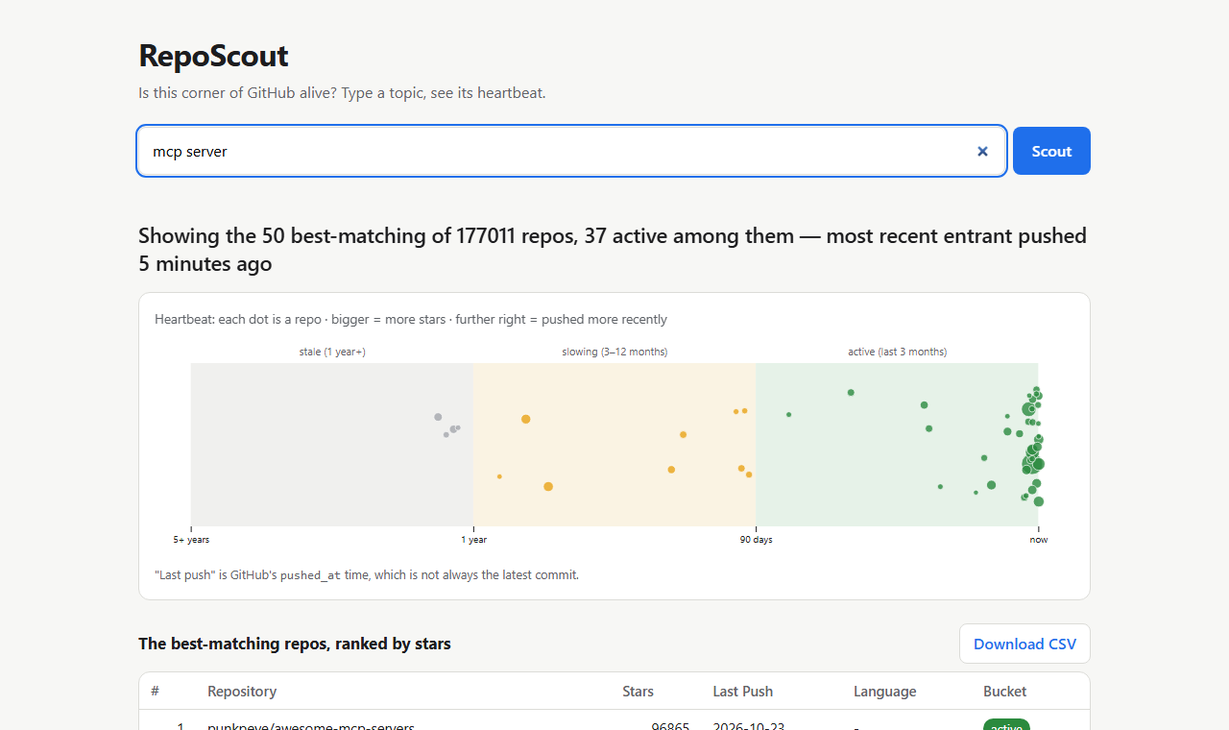
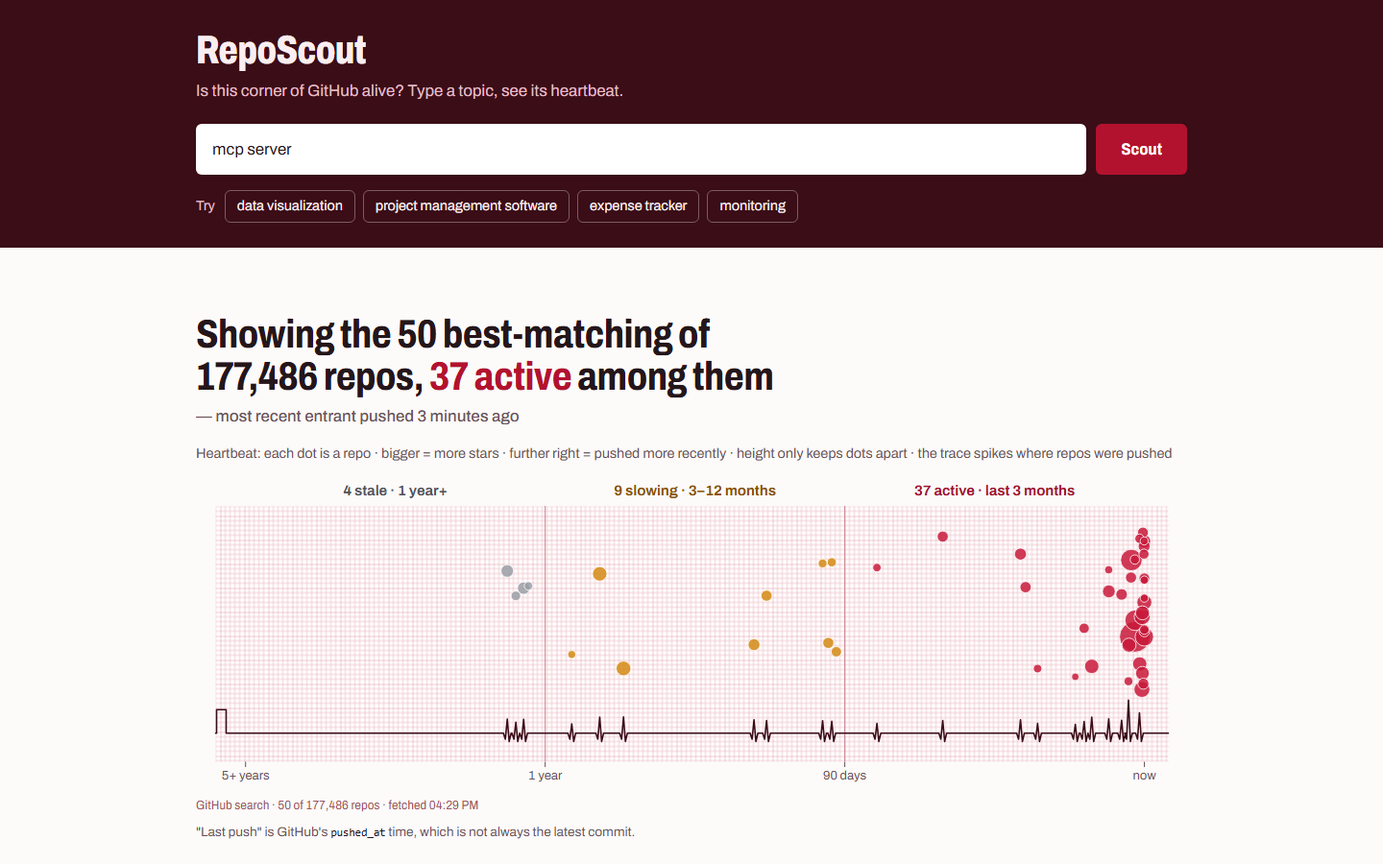
README demo (HW8), new screenshots, archive website-heartbeat-ui
README section 1 rewritten in six sentences around the finished page
(project management software, mcp server vs angularjs directive, CSV).
Four new screenshots of the final design. website-heartbeat-ui archived
(24/24 tasks); new main spec openspec/specs/web-ui.

diff --git a/AGENTS.md b/AGENTS.md
@@ -632,3 +632,103 @@ The user reported the long-name wrap fix wasn't visible yet in their browser; mo
 Compared gstack `/qa` (finds functional bugs) with Impeccable (design polish). The functional checks were already done (every state, race, cache, phone width, live data, plus the user's own run), and the demo is screenshots, so **decision (user): replace task 8.2 with an Impeccable design pass** (install, `critique` then `polish` on `site/` at desktop and 360 px, keep every spec scenario true, re-run both test suites). Task 8.3 reopened: the screenshots taken earlier (before polishing) will be retaken afterwards. Reverses the CEO review's R8 ("keep `/qa`"), by the user's explicit choice. `openspec validate --strict` passes. Progress: 22/24.
 
 **Next step:** the user sends Impeccable's install instructions; install, then run the pass.
+
+## 2026-10-26 (later) — Impeccable installed; screenshot keywords decided
+
+The user confirmed the wrap fix after a server restart. Installed Impeccable (skill v4.7.0, engine v0.1.16) **globally** for Claude Code only, like gstack (`npx impeccable install --providers=claude --global --no-hooks -y`), into `~/.claude/skills/impeccable/` plus 4 helper agents in `~/.claude/agents/`. Optional hooks skipped. Nothing added to the repo.
+
+**Screenshot keywords (user decision):** alive `mcp server`, graveyard `angularjs directive`, and for the table/CSV shot **`project management software`** instead of `expense tracker` (the search where the long-name overflow was found, and it shows the fix). README §1 keeps the `expense tracker` example and also mentions `project management software`, with the real numbers from the retaken screenshot. Noted in task 8.3.
+
+**Next step:** `/impeccable init`, then the design pass (8.2), then the screenshots (8.3) and the README addition.
+
+## 2026-10-26 (later) — `/impeccable init`: PRODUCT.md written
+
+Impeccable's init interview (3 questions). User answers: users = the demo audience (classmates, instructor; screenshot presentation) plus the author and a friend for real use; positioning = **fast GitHub search with export** (no sign-in); constraints = static/no build step, same rules as the CLI, works at phone width. Written to `PRODUCT.md` at the repo root (product facts only, no visual decisions; Impeccable reads it for later commands). No image generation on this machine, so no comp-first/code-first setting; live mode not configured (not needed for a critique/polish pass).
+
+**Next step:** `/impeccable critique site`, then `polish` (task 8.2).
+
+## 2026-10-26 (later) — `/impeccable critique site`: 25/40, polish plan chosen
+
+Dual-agent critique (design review + Impeccable detector/browser, run as two isolated subagents). Score **25/40 (Acceptable)**. Detector: markup clean; browser flagged the `active` pill contrast (white on `#2b8a3e`, 4.4:1 < 4.5:1) and 11 px chart zone labels. Priority issues: no focal point at presentation size (P1), repo names not links (P1), zero/error states look broken (P2), accessibility gaps (P2), phone names break mid-word (P2), bare start screen (P3). Snapshot in `.impeccable/critique/` (contains a local absolute path → to be gitignored).
+
+**User choices:** focus on presentation impact first, take on all 6 issues, and give the page **more character** (not just a sharper default look). Order: bolder → typeset + colorize (font vendored in `site/vendor/`, no CDN) → harden (links, live verdict) → clarify (empty/error states) → adapt (break names after `/`) → onboard (example topics) → polish, keeping every `web-ui` spec scenario true.
+
+**Example topic buttons (user decision):** `mcp server`, `project management software`, `expense tracker`, `monitoring` — popular, understandable topics; `angularjs directive` left out of the buttons because it isn't understandable to a general audience.
+
+**Publishing later (question answered):** the page is static with relative paths, vendored libraries and no token, so GitHub Pages needs no code changes: one small Actions workflow that publishes `site/` (or a `docs/` move) plus the repo's Pages setting. Open question: whether the course org (`esst-prog2`) allows Pages for this repo.
+
+**Correction (user):** `mcp server` replaced by **data visualization** in the example buttons → `data visualization`, `project management software`, `expense tracker`, `monitoring`. US spelling on purpose: GitHub doesn't treat the spellings as the same word (live check: "data visualization" 402,105 repos vs "data visualisation" 35,668). `mcp server` stays the alive-topic screenshot.
+
+## 2026-10-26 (later) — `/impeccable bolder site`: verdict as headline, louder heartbeat strip
+
+Scope: the results hero only (verdict + strip); nothing else restyled, no new font. Chose *not* to add the critique's "big 37/50 number" block: Impeccable's craft floor bans the hero-metric template, and the verdict sentence already holds the number.
+- **Verdict** (`renderVerdict()` in `site/app.js`): display headline (fluid 1.5–2.25rem, 700, balanced, max 30ch); the `<A> active` part is a coloured span (dark green, grey when 0); the "— most recent entrant…" tail is a quieter second line. Built from text nodes, so `textContent` is still exactly the CLI verdict (spec wording unchanged; checked live and in the harness).
+- **Strip:** 340 px tall (360 on phones, was 230/300); zone labels now carry counts in darkened bucket colours at 15/13 px, 650 weight (`48 stale · 1 year+`, `0 active · last 3 months`), fixing the detector's 11 px tiny-text finding; dot radius 3–16 px (was 2–11); axis text 13 px; wider left padding so the "5+ years" pile sits inside the frame.
+- Not possible within the spec: thousands separators in the verdict ("177363"), since its wording must match the CLI.
+Checked live at 1280 and 360 (`mcp server`, `angularjs directive`; no sideways scroll). 175 pytest + 63 node tests passing.
+
+## 2026-10-26 (later) — `/impeccable typeset + colorize site`: the ECG chart-paper world
+
+The user asked for "more character". Impeccable treats that as a new visual world: I listed seven candidate worlds from the audience's own world (library due-date card, IUCN Red List, ECG chart paper, football table + form guide, best-before labels, weather-warning map, herbarium sheet), Impeccable's `concept-seed` assigned #3 and dealt six catalogue challengers (two competitive, four declined, each declined one lending one discipline). Choice presented as text (no image generation → no picture page). **User chose: ECG chart paper.** Direction contract in `.impeccable/surfaces/site-index-html.md` (seed `57447f7b3f68e516`).
+
+**Built (code-led):**
+- Oxblood header band with title, search, red Scout button and the four example topic buttons (`data visualization`, `project management software`, `expense tracker`, `monitoring`); on phones they scroll on one row with an edge fade.
+- **Archivo** variable font, vendored in `site/vendor/fonts/` (latin + latin-ext woff2, OFL licence, `@fontsource-variable/archivo@5.2.8`): condensed widths for title, verdict and table headers, normal width for reading.
+- The strip is one sheet of ECG paper (5/25 px pink grid drawn as an SVG pattern), no card frame, no zone washes; **the trace** (signature move) runs along the bottom and spikes at each repo's last push (taller = more stars, sized in pixels), so a dead topic flatlines across the active zone; a square calibration pulse at its start; a printout line under it ("GitHub search · 50 of 3137 repos · fetched 13:31").
+- Colours by meaning: trace red = active, amber = slowing, flat grey = stale; table shows the bucket word in its ink (no pills), a red mark on active ranks, stale rows faded; numeric headers right-aligned; names break after "/" (`<wbr>` text nodes).
+- Hovering (or tabbing into) a table row lifts its dot in the chart and dims the rest. Loading dims earlier results (`aria-busy`). Start screen shows a blank sheet with a flat trace, no data.
+- Verdict `textContent` still exactly the CLI wording; GitHub text still plain text; harness markup synced with the page.
+
+**Review:** Impeccable's finish reviewer (2 rounds): round 1 asked for 8 fixes (one printed sheet, no card, calibration pulse + printout line, row states, idle start screen, name breaks, header alignment, loading state), all applied; round 2 found three small regressions (a number shown with and without separators, "37 active" splitting at 360, cut-off topic chip), fixed and checked. Detector: one advisory on the grid background, kept on purpose (it is the measurement surface). 175 pytest + 63 node tests passing. DESIGN.md written by Impeccable's documenter.
+
+**New open issue #8:** thousands separators ("177,363") in the verdict. The verdict must match the CLI word for word (spec + shared fixture), so this is a small separate OpenSpec change touching the CLI, the page and the fixture; the printout line deliberately prints numbers the same way as the verdict until then.
+
+## 2026-10-26 (later) — `/impeccable harden site`
+
+- **Repo names are links** (new tab, `rel="noopener noreferrer"`), still built from text nodes. A link is made only when GitHub's `html_url` is `https://` on exactly `github.com` (`isGitHubUrl()`); anything else (e.g. `javascript:…`, `github.com.evil.example`) stays plain text. Focusing a link also triggers the linked chart highlight.
+- **Screen readers hear the answer:** a visually hidden `aria-live` region (`#announce`) gets the verdict (plus the incomplete warning) after each render; before, they heard "Scouting GitHub…" and then nothing.
+- **Hanging requests time out after 20 s** (`AbortController`), showing "Could not reach GitHub: it didn't answer within 20 seconds…" (still the spec's "unreachable" state) instead of loading forever.
+- Harness: new cases `badurl` (unsafe URLs stay text: 0 links) and `hang` (timeout message after 20 s); the mock `fetch` now passes the request options (signal) through. Checked: 5 links with correct href/target/rel in `normal`, announcement text = verdict, no alert from the `<img onerror>` name. 175 pytest + 63 node tests passing.
+
+## 2026-10-26 (later) — `/impeccable clarify site`
+
+- **Zero results:** the verdict still says `0 repos found` (spec), followed by "No repositories on GitHub match “<keyword>”. Try fewer or more general words, or one of the example topics above."; the empty chart, table heading and table are hidden. Found on the way: `.table-head { display: flex }` overrode the `hidden` attribute → global `[hidden] { display: none !important; }`.
+- **Errors say what failed and what to do,** with a **Try again** button where a second attempt can help (offline, 20 s timeout, GitHub 5xx, unexpected response); not for rate limits (must wait) or 4xx (change the words). 5xx and other 4xx now get different messages, both still naming the HTTP status (spec). Rate limit: "Too many searches for now: GitHub allows 10 a minute without signing in. Search again after HH:MM:SS." (or "GitHub gave no reset time…"). Spec-required phrases kept ("Could not reach GitHub", "GitHub sent a response RepoScout doesn't understand", the HTTP status, "no reset time").
+- Loading names the search: "Scouting GitHub for “<keyword>”…"; empty input: "Type a topic first, for example “expense tracker”." Keyword always inserted as text.
+- Harness: new `error502` case; every state checked (message, retry button presence, retry makes a new request). 175 pytest + 63 node tests passing.
+
+## 2026-10-26 (later) — `/impeccable adapt site`
+
+- **Chart redraws when its width changes** (window resized, phone rotated): a `ResizeObserver` on `#chart`, debounced 150 ms, redraws with the same data and the same "now" (`shown.nowMs`), so labels, dot sizes and spikes always fit the real width. Checked by resizing one page 1280 → 700 → 320 → 740 → 768 → 1600: SVG width follows each time, no sideways page scroll at any width.
+- **Touch screens** (`pointer: coarse`): example topics and Try again at least 40 px tall; repo links get a taller tap area.
+- **Phone held sideways** (`max-height: 480px` landscape): compact header band, so the verdict stays in view under the search box (was: band took 258 of 360 px).
+- **Notched phones:** `viewport-fit=cover` + side padding `max(…, env(safe-area-inset-*))`.
+- Evidence: Chromium headless with emulated viewports (layout only); real touch and iOS Safari not tested. 175 pytest + 63 node tests passing.
+
+## 2026-10-26 (later) — `/impeccable polish site` + plan order
+
+- **One palette:** every colour literal left in `site/style.css` and in the chart code of `site/app.js` is now a named CSS token (`--tint`, `--head-bg`, `--placeholder`, `--selection`, `--error-rule`, `--printout`, `--grid-minor/major`, `--zone-rule`, `--active-hover`, `--*-label`); the chart reads them with `token()` (`getComputedStyle`), so page and chart can't drift apart. Two near-identical hover tints merged into `--tint`. DESIGN.md + `.impeccable/design.json` token names aligned with the CSS.
+- Re-checked: rendering unchanged at 1280 (alive search + table), visible focus ring on topic buttons, repo links and the CSV button, no console errors, detector only the intended grid-background advisory, 175 pytest + 63 node tests passing. The critique snapshot wasn't formally closed (Impeccable sees the page as changed since the critique, which closes its backlog by itself); all six priority issues from it are addressed (bolder, links/harden, empty/error states, accessibility, phone name breaks, start screen + example topics).
+
+**Order agreed with the user for the rest of `website-ui`:** polish (done) → open issue #8 thousands separators as its own small OpenSpec change (CLI + page + fixture) → retake the three screenshots (`mcp server`, `angularjs directive`, `project management software`) → README §1 rewrite (≤ 6 sentences, present tense, real numbers; this is **HW8**, which asks for 3–6 sentences) → archive `website-heartbeat-ui`, commit, push → user pastes §1 into the HW8 submission.
+
+## 2026-10-26 (later) — Proposed: thousands separators in the verdict (open issue #8)
+
+On `website-ui` (same branch, separate OpenSpec change, as agreed). `/opsx:propose` → change `verdict-thousands-separators`: MODIFIED `repo-search` "One-line verdict summary" (every verdict count gets a comma every three digits, e.g. "244,832", independent of the computer's locale; example updated to "3,241"; 2 new scenarios). Decisions recorded in design.md: a **fixed comma** (Python `{:,}`, JS regex helper `groupThousands`, not `toLocaleString`) so the CLI, the page and the shared fixture agree on any machine; the page's printout line uses the same helper; **Stars column and CSV unchanged** (CSV stays plain digits for spreadsheets). Fixture-first, red then green, both suites. The `web-ui` example lives in the not-yet-archived `website-heartbeat-ui` change, so it's updated there (task 3.1). `openspec validate --strict` passes. Nothing implemented yet.
+
+## 2026-10-26 (later) — Implemented: thousands separators in the verdict (7/7 tasks)
+
+`/opsx:apply` for `verdict-thousands-separators`. **Red first:** fixture updated by hand (244832 → "244,832", plus new cases 999 / 1000 / 1000000) → 3 failures in each suite (999 already passed, kept as guard); `tests/test_output.py` "3,241" assertion and a new test that runs `format_verdict` under a real Hungarian locale (installed on this machine, so not skipped) → both failed.
+**Green:** `reposcout/output.py` formats verdict counts with `{:,}`; `site/rules.js` gets `groupThousands()` (regex, no `toLocaleString`) used in `formatVerdict`; the page's printout line uses it too. Harness case `big` (177455) shows "177,455" in verdict and printout; live "mcp server" → "Showing the 50 best-matching of 177,480 repos, 37 active among them…". Docs: USER_MANUAL example "3,241", the `web-ui` scenario in `website-heartbeat-ui` "244,832", design notes. 179 pytest + 66 node tests, both changes validate.
+**Found on the way:** the headless browser kept an old cached `rules.js` while loading the new `app.js` ("does not provide an export named 'groupThousands'"), so the page's script didn't start. Same can happen in a real browser after an update → hard refresh (Ctrl+F5). Possible later fix: version the script URLs (e.g. `app.js?v=…`) when publishing on GitHub Pages; noted, not done.
+
+## 2026-10-26 (later) — Archived: `verdict-thousands-separators`
+
+`/opsx:archive`: 4/4 artifacts, 7/7 tasks. Synced the MODIFIED "One-line verdict summary" requirement into `openspec/specs/repo-search/spec.md` (thousands-separator rule, "3,241" example, 2 new scenarios; other scenarios unchanged). Verified the main requirement equals the delta, requirement count unchanged (6), `openspec validate --specs --strict` passes. Moved to `openspec/changes/archive/2026-10-26-verdict-thousands-separators/`. Open issue #8 closed. Active change left: `website-heartbeat-ui` (screenshots + README §1 remaining).
+
+## 2026-10-26 (later) — Screenshots retaken, README §1 (HW8), `website-heartbeat-ui` archived
+
+- **Screenshots** (1440×900, live data, final design) in `docs/screenshots/`: `1-alive-mcp-server.png` (177,486 repos, 37 active), `2-graveyard-angularjs-directive.png` (3,137 repos, 0 active, trace flatlines across the active zone), `3-project-management-software.png` (14,067 repos, 10 active) and `4-table-csv-project-management-software.png` (ranked table + Download CSV). The old `3-table-expense-tracker.png` was removed.
+- **README §1 rewritten for HW8**: 6 sentences, present tense, real numbers and filenames (`project management software` as the main path, `mcp server` vs `angularjs directive` as the contrast, `project-management-software-report.csv`, `docs/screenshots/`, the CLI with `expense tracker` underneath). Recorded by the `website-heartbeat-ui` OpenSpec change (proposal + tasks 1.4/7.1/8.3), so no separate propose was needed.
+- Tasks 8.2 (Impeccable design pass) and 8.3 (screenshots) done → 24/24. `openspec archive website-heartbeat-ui -y` created the new main spec `openspec/specs/web-ui/spec.md` (9 requirements, 19 scenarios, identical to the delta); `openspec validate --specs --strict` → 4/4. No active changes left. 179 pytest + 66 node tests passing.
+- Open issues now: #4 lock file (deferred), #7 dated/versioned report files; noted: cache-busting script URLs before GitHub Pages; GitHub Pages permission question asked to the instructor in HW7.

diff --git a/openspec/specs/web-ui/spec.md b/openspec/specs/web-ui/spec.md
@@ -1,0 +1,118 @@
+# web-ui Specification
+
+## Purpose
+A static, tokenless web page that searches GitHub by keyword with the same rules as the RepoScout CLI and shows a topic's health at a glance as a heartbeat strip, plus the verdict, a ranked table and a CSV download.
+
+## Requirements
+
+### Requirement: Static, tokenless page
+The web interface SHALL consist only of static files (HTML, CSS, JavaScript and vendored libraries) that work when served by any static file server, with no build step and no server-side code. The page SHALL call GitHub's repository search API directly from the browser and SHALL NOT use, ask for, or contain a GitHub token. Third-party libraries SHALL be loaded from files inside the project at pinned versions, not from a CDN. Text that comes from GitHub (repository names, languages, URLs) and the user's keyword SHALL be inserted into the page as plain text, never interpreted as HTML.
+
+#### Scenario: HTML-looking data stays text
+- **WHEN** a (recorded) response contains a repository named `<img src=x onerror=alert(1)>`
+- **THEN** the table and tooltip show those characters literally and no script runs
+
+#### Scenario: Served locally
+- **WHEN** the user runs `python -m http.server` in the `site/` folder and opens the page in a browser
+- **THEN** the page loads and can run a search, with no token prompt and no request to any host other than the local server and `api.github.com`
+
+#### Scenario: No token anywhere
+- **WHEN** the page's files are inspected
+- **THEN** they contain no GitHub token and no field or prompt that asks for one
+
+### Requirement: Same selection and ranking as the CLI
+For a keyword, the page SHALL request the 50 best-matching repositories by GitHub's relevance ranking (no `sort` parameter), passing the keyword to GitHub unchanged apart from URL-encoding, and SHALL display the fetched repositories ranked by stars, descending. Each repository SHALL be bucketed `active` (last push under 90 days ago), `slowing` (under 365 days) or `stale` (365 days or more), using GitHub's `pushed_at`.
+
+#### Scenario: Search request
+- **WHEN** the user searches for `expense tracker`
+- **THEN** the page requests `https://api.github.com/search/repositories` with `q=expense%20tracker` (or equivalent encoding) and `per_page=50`, and without a `sort` parameter
+
+#### Scenario: Display order independent of GitHub's order
+- **WHEN** GitHub returns repositories with 5, 300 and 40 stars, in that order
+- **THEN** the table and strip list them as 300, 40, 5
+
+### Requirement: Verdict line matches the CLI
+The page SHALL show a one-line verdict with the same wording rules as the CLI: `<N> repos found, <A> active in the last <window> — most recent entrant pushed <time>` when GitHub's reported total is not larger than the number of repositories fetched, and `Showing the <n> best-matching of <N> repos, <A> active among them — most recent entrant pushed <time>` otherwise, and `0 repos found` when there are none. The relative time SHALL be rounded down exactly as the CLI does it.
+
+#### Scenario: More than 50 matches
+- **WHEN** GitHub reports 244,832 matches and 50 are fetched, 10 of them active
+- **THEN** the verdict begins `Showing the 50 best-matching of 244,832 repos, 10 active among them`
+
+#### Scenario: Relative time rounded down
+- **WHEN** the most recently pushed repository was pushed 16 days ago
+- **THEN** the verdict ends `pushed 2 weeks ago`
+
+### Requirement: Heartbeat strip
+The page SHALL draw one dot per fetched repository on a horizontal axis of time since last push, divided into three zones of readable width, stale (left), slowing (middle) and active (right). Within each zone the position SHALL be proportional to days since last push over that zone's range (active 0-90 days, slowing 90-365 days, stale 365 days to 5 years); repositories pushed more than 5 years ago SHALL be placed at the left edge, which is labelled as 5+ years. Dot area SHALL grow with stars on a square-root (or capped) scale, dot shade SHALL show the bucket, and overlapping dots SHALL be separated vertically. Each dot SHALL show the repository name, stars and last push date on hover or tap. The page SHALL state in one line that "last push" is GitHub's `pushed_at`, not a verified last commit. If the chart libraries are not available or the chart fails to draw, the page SHALL still show the verdict and table, with a plain note that the chart is unavailable.
+
+#### Scenario: Active repositories have room
+- **WHEN** a search returns repositories pushed across ten years, some within the last 90 days
+- **THEN** the active zone takes up a readable share of the strip's width (not a sliver), and the recent repositories appear in it
+
+#### Scenario: Chart library missing
+- **WHEN** the chart library fails to load
+- **THEN** the verdict and table are still shown, with a note that the chart is unavailable, and no blank page
+
+### Requirement: Results table and CSV download
+The page SHALL show a table of the fetched repositories with the CLI's columns (`#`, `Repository`, `Stars`, `Last Push`, `Language`, `Bucket`), with `Last Push` as the UTC date of `pushed_at` (as the CLI does, regardless of the browser's time zone). It SHALL offer a download of the same rows as a CSV with the CLI's CSV columns (the table columns plus `URL`), an empty `Language` when GitHub reports none, and a filename following the CLI's rule (`<slug>-report.csv`, with filename-unsafe characters replaced and `search-report.csv` as the fallback).
+
+#### Scenario: Download CSV
+- **WHEN** the user searches for `c++/qt` and clicks Download CSV
+- **THEN** the browser saves `c++-qt-report.csv` containing the header row and one row per fetched repository, in table order
+
+### Requirement: Search states
+The page SHALL show a plain-language message for each of these states, never a blank page or an error visible only in the browser console:
+- loading while the request is in progress;
+- empty input: an empty or whitespace-only keyword SHALL NOT be sent;
+- zero results: `0 repos found`;
+- incomplete results: when GitHub's response has `incomplete_results: true`, a warning that the results may be incomplete, shown together with the results;
+- rate-limited: detected only on a non-OK response, with exactly the CLI's rule: any HTTP 429, or HTTP 403 with `X-RateLimit-Remaining: 0` or a `Retry-After` header (any other status, e.g. 422, is never a rate limit). The page SHALL show a static message with the clock time after which searching works again, computed from `Retry-After` when it is a whole number of seconds, otherwise from `X-RateLimit-Reset`; when neither is present it SHALL say GitHub gave no reset time and SHALL NOT invent one. There is no live countdown and no automatic retry; the search button stays usable;
+- offline or unreachable: a message that GitHub could not be reached;
+- any other error response (for example HTTP 422): a message naming the HTTP status;
+- unexpected response: a successful response whose body is not valid JSON, or lacks `total_count`, `items` or `incomplete_results`, or contains an item missing `full_name`, `html_url`, `stargazers_count`, `pushed_at` or the `language` key, or whose `pushed_at` is not a valid timestamp, SHALL show a message that GitHub sent a response RepoScout doesn't understand (as the CLI does), instead of staying on the loading state.
+A successful response SHALL always be shown as results, whatever its rate-limit headers say. The page SHALL always show the outcome of the most recently submitted search: a response to an earlier search that arrives later SHALL be ignored (a new search replaces one still in progress).
+
+#### Scenario: Secondary rate limit
+- **WHEN** GitHub answers HTTP 403 with `Retry-After: 42` and `X-RateLimit-Remaining: 7`
+- **THEN** the page shows a rate-limit message saying to try again after the clock time 42 seconds from now
+
+#### Scenario: Last allowed search
+- **WHEN** GitHub answers HTTP 200 with results and `X-RateLimit-Remaining: 0`
+- **THEN** the page shows the results normally
+
+#### Scenario: Older answer arrives last
+- **WHEN** the user searches `react` and then `vue` before the first answer arrives, and GitHub answers `vue` first and `react` second
+- **THEN** the page keeps showing the `vue` results and ignores the late `react` answer
+
+#### Scenario: Garbage success response
+- **WHEN** a network login page answers HTTP 200 with an HTML page instead of GitHub's JSON
+- **THEN** the page shows that GitHub sent a response RepoScout doesn't understand, and does not stay on "loading"
+
+#### Scenario: No reset time given
+- **WHEN** GitHub answers HTTP 429 with no `Retry-After` and no `X-RateLimit-Reset`
+- **THEN** the page says it is rate-limited and that GitHub gave no reset time, without inventing a time
+
+### Requirement: Browser cache
+The page SHALL cache each search's fetched data in browser storage for 24 hours, keyed by the keyword normalized like the CLI's cache key (trimmed, internal whitespace collapsed, case-folded), and SHALL serve a repeat search within 24 hours from the cache without calling GitHub. The cached entry SHALL record whether the results were incomplete, so a cache hit shows the same warning; an entry without that record SHALL be treated as a miss. If browser storage is unavailable, the page SHALL still work, without caching.
+
+#### Scenario: Repeat search
+- **WHEN** the user searches `Expense   Tracker` within 24 hours of searching `expense tracker`
+- **THEN** the results are shown from the cache, with no request to GitHub
+
+#### Scenario: Storage blocked
+- **WHEN** the browser refuses access to local storage
+- **THEN** searches still work, each one calling GitHub
+
+### Requirement: Rules parity with the CLI
+The bucketing, verdict wording, relative-time rounding, keyword normalization, CSV filename and CSV row rules SHALL be checked against one shared test fixture by both the Python test suite and a JavaScript test run, so that a rule changed in only one language makes a test fail. The fixture SHALL include at least: bucket boundary cases (89, 90, 364, 365 days), verdict cases for both wordings, for zero results and for an incomplete result (30 fetched of 60 reported), relative-time cases across every unit, a non-ASCII keyword, a keyword with filename-unsafe characters, a repository with no language, a `pushed_at` at 23:30 UTC, and rate-limit cases (a 429 with no headers is limited; a 422 with `X-RateLimit-Remaining: 0` is not; a non-numeric `Retry-After` falls back to `X-RateLimit-Reset`). Parity SHALL be checked with recorded inputs and a fixed "now", not by comparing two live searches. The fixture SHALL be fixed reference data, edited by hand on purpose, not regenerated from either implementation. Keyword normalization parity is claimed for the fixture's cases (ASCII, Hungarian, `ß`); rarer Unicode case-folding or whitespace characters may differ from Python.
+
+#### Scenario: A rule drifts
+- **WHEN** the active threshold is changed in the JavaScript rules but not in the Python package (or the reverse)
+- **THEN** the fixture test for that language fails
+
+### Requirement: Usable at phone width
+The page SHALL be usable on a phone-sized screen (360 px wide): the sections stack vertically, nothing requires horizontal page scrolling except the table itself, the table either scrolls sideways within its own area or hides its less important columns (`Language`, `Last Push`), and the strip is tall enough for its dots to remain distinguishable.
+
+#### Scenario: Phone viewport
+- **WHEN** the page is shown at 360 px width after a search
+- **THEN** the search box, verdict, strip and table are all reachable by vertical scrolling, and the page itself does not scroll sideways

diff --git a/README.md b/README.md
@@ -5,9 +5,7 @@ See [docs/USER_MANUAL.md](docs/USER_MANUAL.md) for installation, GitHub token se
 
 ## 1. The demo
 
-I open the RepoScout page in my browser (served locally from the `site/` folder, no sign-in or token needed) and type `expense tracker` into the search box. RepoScout asks GitHub for the 50 repositories that best match the topic and answers with one sentence: `Showing the 50 best-matching of 245015 repos, 4 active among them — most recent entrant pushed 21 hours ago`. Below it is the **heartbeat strip**: every repository is a dot, bigger for more stars, placed by how long ago it was last pushed to, across three zones (stale, slowing, active). One glance shows whether a topic is alive (a cluster on the right, like `mcp server`) or a graveyard (dots fading to the left, like `angularjs directive`); I show one of each ([screenshots](docs/screenshots/)). Under the strip, a table lists the same repositories ranked by stars, with last push date, language and activity bucket, and a **Download CSV** button saves `expense-tracker-report.csv` with the same rows, ready for a spreadsheet. The demo itself is a five-minute presentation with screenshots of these screens.
-
-Underneath, it's the same tool as before: the `reposcout search "expense tracker"` command-line program still prints the table and the verdict in a terminal and writes the CSV, and the page follows exactly its rules (a shared test fixture keeps the two in line).
+I open the RepoScout page in my browser (served from the `site/` folder with `python -m http.server`, no sign-in or token) and click the example topic `project management software`. RepoScout asks GitHub for the 50 best-matching repositories and answers in one headline: `Showing the 50 best-matching of 14,067 repos, 10 active among them — most recent entrant pushed 1 minute ago`. Below it, the **heartbeat strip** draws every repository as a dot on ECG-style chart paper, bigger for more stars and further right for a more recent push, with a trace along the bottom that spikes wherever repos were pushed. Two more searches show the contrast: `mcp server` is alive (37 of 50 active, the trace beating on the right), while `angularjs directive` is a graveyard (0 active, the trace flatlining across the whole active zone). Under the strip, a table ranks the same 50 repos by stars with last push date, language and activity bucket, and **Download CSV** saves `project-management-software-report.csv` with the same rows. The demo is five minutes of screenshots of these screens ([docs/screenshots/](docs/screenshots/)), and the command line underneath (`reposcout search "expense tracker"`) prints the same verdict by exactly the same rules.
 
 ## 2. The shape
 

diff --git a/openspec/changes/archive/2026-10-26-website-heartbeat-ui/tasks.md b/openspec/changes/archive/2026-10-26-website-heartbeat-ui/tasks.md
@@ -45,5 +45,5 @@
 ## 8. Verification
 
 - [x] 8.1 Run `pytest`, `node --test "tests/js/*.test.mjs"` and `openspec validate website-heartbeat-ui --strict`; verify all pass.
-- [ ] 8.2 Impeccable design pass on the served page (replaces the planned gstack `/qa` pass, user decision 2026-10-26: the functional checks were already done in groups 3-6 and by the user's own run, and the demo is screenshots, so polish matters more): install Impeccable, run its review (e.g. `critique`, then `polish`) on `site/` at desktop and 360 px, apply the changes that keep every spec scenario true, and re-run `pytest` and `node --test "tests/js/*.test.mjs"`. Verify by before/after screenshots and green tests.
-- [ ] 8.3 Take the three demo screenshots (alive topic strip, graveyard topic strip, table/CSV) and save them under `docs/screenshots/`; verify the files exist and read clearly. Retake after the Impeccable pass (the first set, taken before polishing, is replaced).
+- [x] 8.2 Impeccable design pass on the served page (replaces the planned gstack `/qa` pass, user decision 2026-10-26: the functional checks were already done in groups 3-6 and by the user's own run, and the demo is screenshots, so polish matters more): install Impeccable, run its review (e.g. `critique`, then `polish`) on `site/` at desktop and 360 px, apply the changes that keep every spec scenario true, and re-run `pytest` and `node --test "tests/js/*.test.mjs"`. Verify by before/after screenshots and green tests.
+- [x] 8.3 Take the three demo screenshots (alive topic strip, graveyard topic strip, table/CSV) and save them under `docs/screenshots/`; verify the files exist and read clearly. Retake after the Impeccable pass (the first set, taken before polishing, is replaced). Keywords (user decision 2026-10-26): alive `mcp server`, graveyard `angularjs directive`, table/CSV `project management software` (instead of `expense tracker`); README §1 keeps the `expense tracker` example and adds `project management software` with the numbers from the retaken screenshot.

diff --git a/openspec/changes/archive/2026-10-26-website-heartbeat-ui/specs/web-ui/spec.md b/openspec/changes/archive/2026-10-26-website-heartbeat-ui/specs/web-ui/spec.md
@@ -37,7 +37,7 @@ The page SHALL show a one-line verdict with the same wording rules as the CLI: `
 
 #### Scenario: More than 50 matches
 - **WHEN** GitHub reports 244,832 matches and 50 are fetched, 10 of them active
-- **THEN** the verdict begins `Showing the 50 best-matching of 244832 repos, 10 active among them`
+- **THEN** the verdict begins `Showing the 50 best-matching of 244,832 repos, 10 active among them`
 
 #### Scenario: Relative time rounded down
 - **WHEN** the most recently pushed repository was pushed 16 days ago
